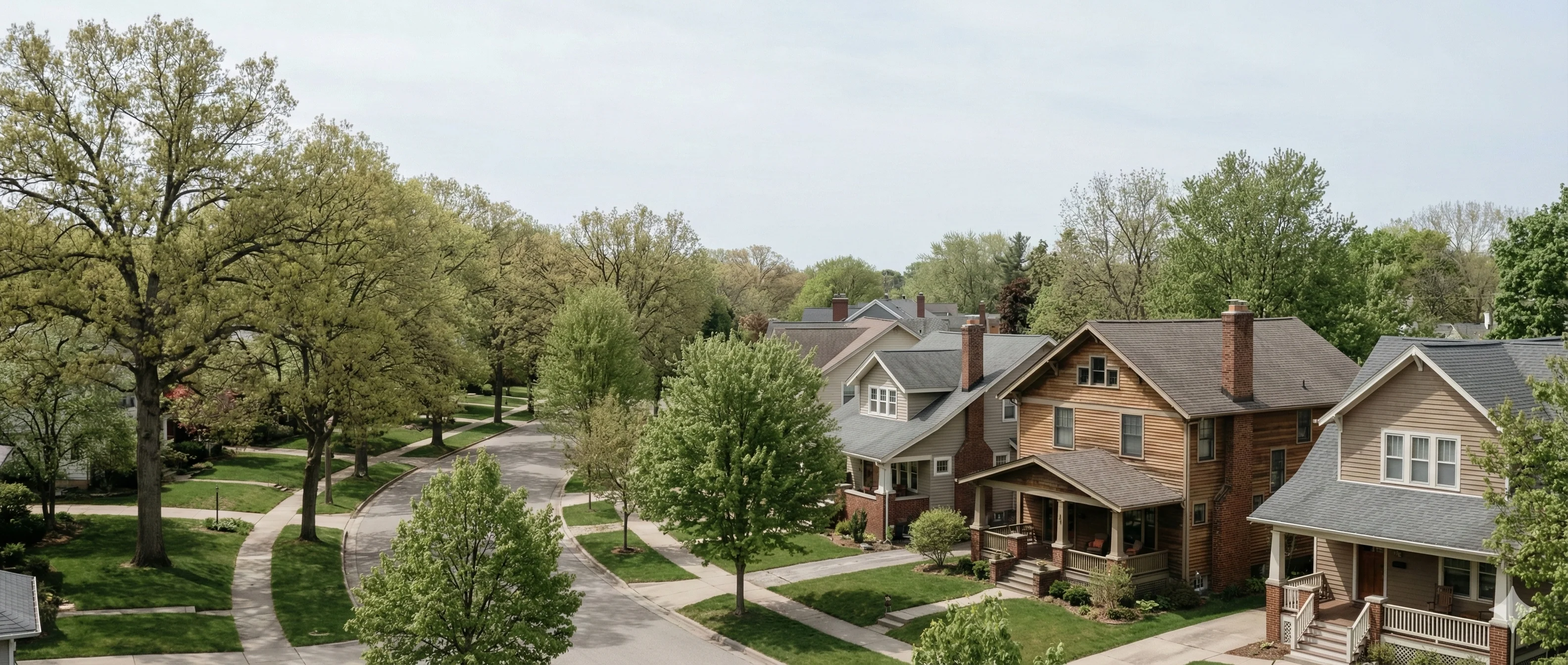
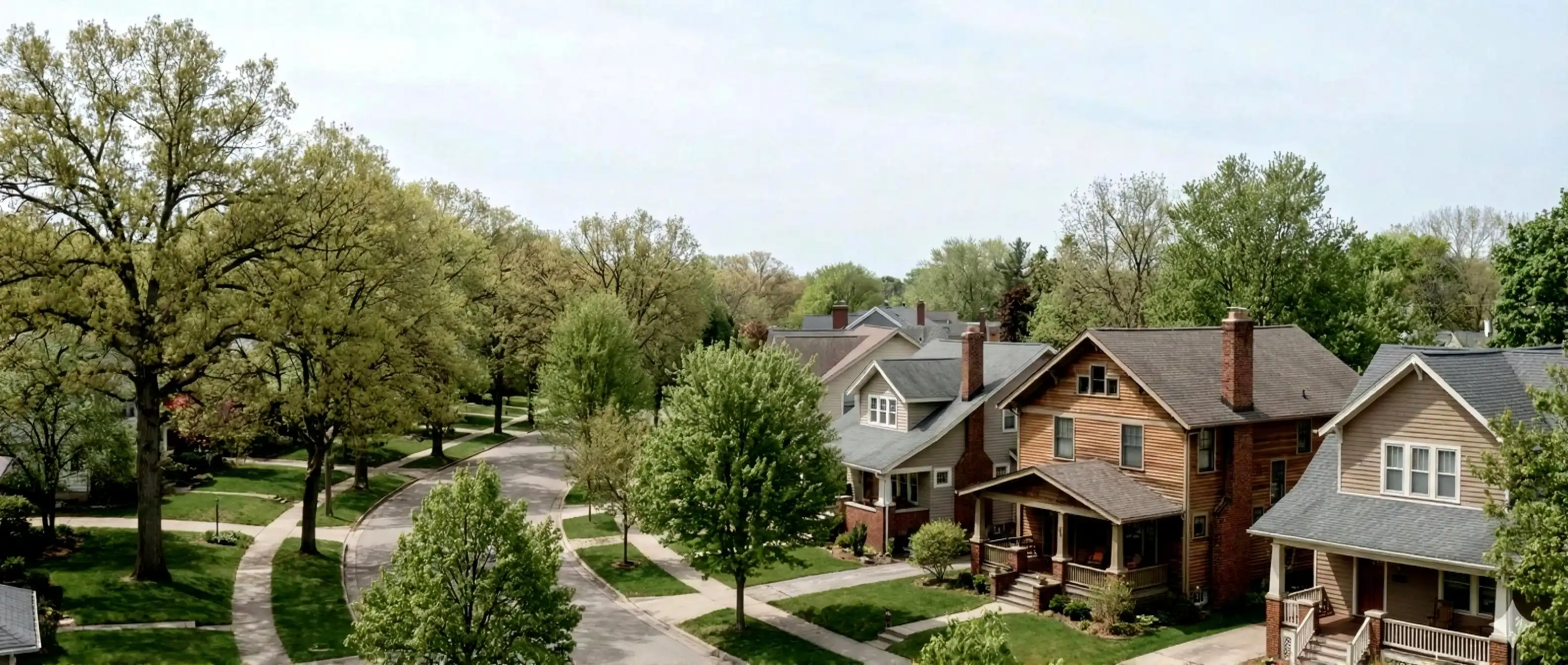
chore(marketing): update hero images (remove watermark)

diff --git a/apps/web/public/marketing/style.css b/apps/web/public/marketing/style.css
@@ -219,7 +219,7 @@ a { color: inherit; text-decoration: none; }
 .hero-shell { position: relative; width: 100%; overflow: hidden; background: var(--brand-navy); color: var(--white); }
 .hero--full { min-height: 70vh; display: flex; align-items: center; position: relative; }
 .hero__media { position: absolute; inset: 0; z-index: 0; overflow: hidden; }
-.hero-img { position: absolute; inset: 0; width: 100%; height: 100%; object-fit: cover; object-position: 70% 55%; transition: opacity 1s ease; }
+.hero-img { position: absolute; inset: 0; width: 100%; height: 100%; object-fit: cover; object-position: center; transition: opacity 1s ease; }
 .hero-img--night { opacity: 0; }
 .hp-hero.is-night .hero-img--day { opacity: 0; }
 .hp-hero.is-night .hero-img--night { opacity: 1; }
@@ -285,9 +285,9 @@ a { color: inherit; text-decoration: none; }
   .byron-hero { background-position: center; }
   .byron-hero::before { background: linear-gradient(90deg, rgba(15,27,45,0.82) 0%, rgba(15,27,45,0.64) 50%, rgba(15,27,45,0) 70%); }
 }
-.build-hero .hero-img { object-position: 75% 55%; }
-.sell-hero .hero-img { object-position: 75% 55%; }
-.buy-hero .hero-img { object-position: 75% 55%; }
+.build-hero .hero-img { object-position: center; }
+.sell-hero .hero-img { object-position: center; }
+.buy-hero .hero-img { object-position: center; }
 
 .hp-hero { align-items: center; }
 .hp-hero__content { text-align: left; justify-items: flex-start; gap: 1rem; max-width: 680px; margin-left: clamp(1.25rem, 6vw, 5rem); margin-right: auto; }

diff --git a/apps/web/public/marketing/builder.html b/apps/web/public/marketing/builder.html
@@ -210,7 +210,7 @@
   <header class="hero-shell hero-shell--full" role="banner">
     <section class="hero hero--full build-hero" aria-labelledby="page-h">
       <div class="hero__media">
-        <img class="hero-img" src="./assets/img/build.webp"" alt="" aria-hidden="true" loading="eager" fetchpriority="high" decoding="async">
+        <img class="hero-img" src="./assets/img/build.webp" alt="" aria-hidden="true" loading="eager" fetchpriority="high" decoding="async">
       </div>
       <div class="hero__overlay"></div>
       <div class="container hero__content hp-hero__content">
